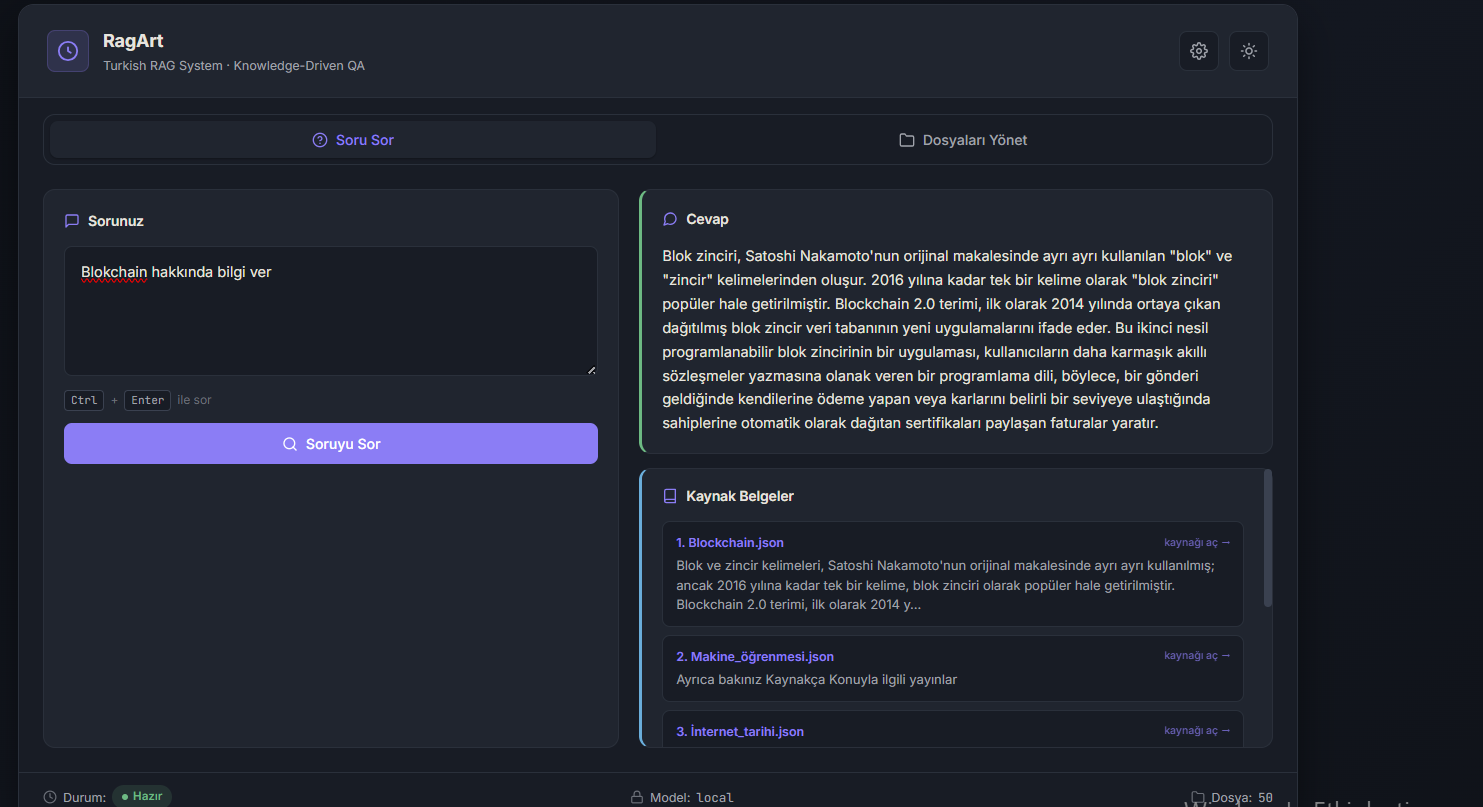
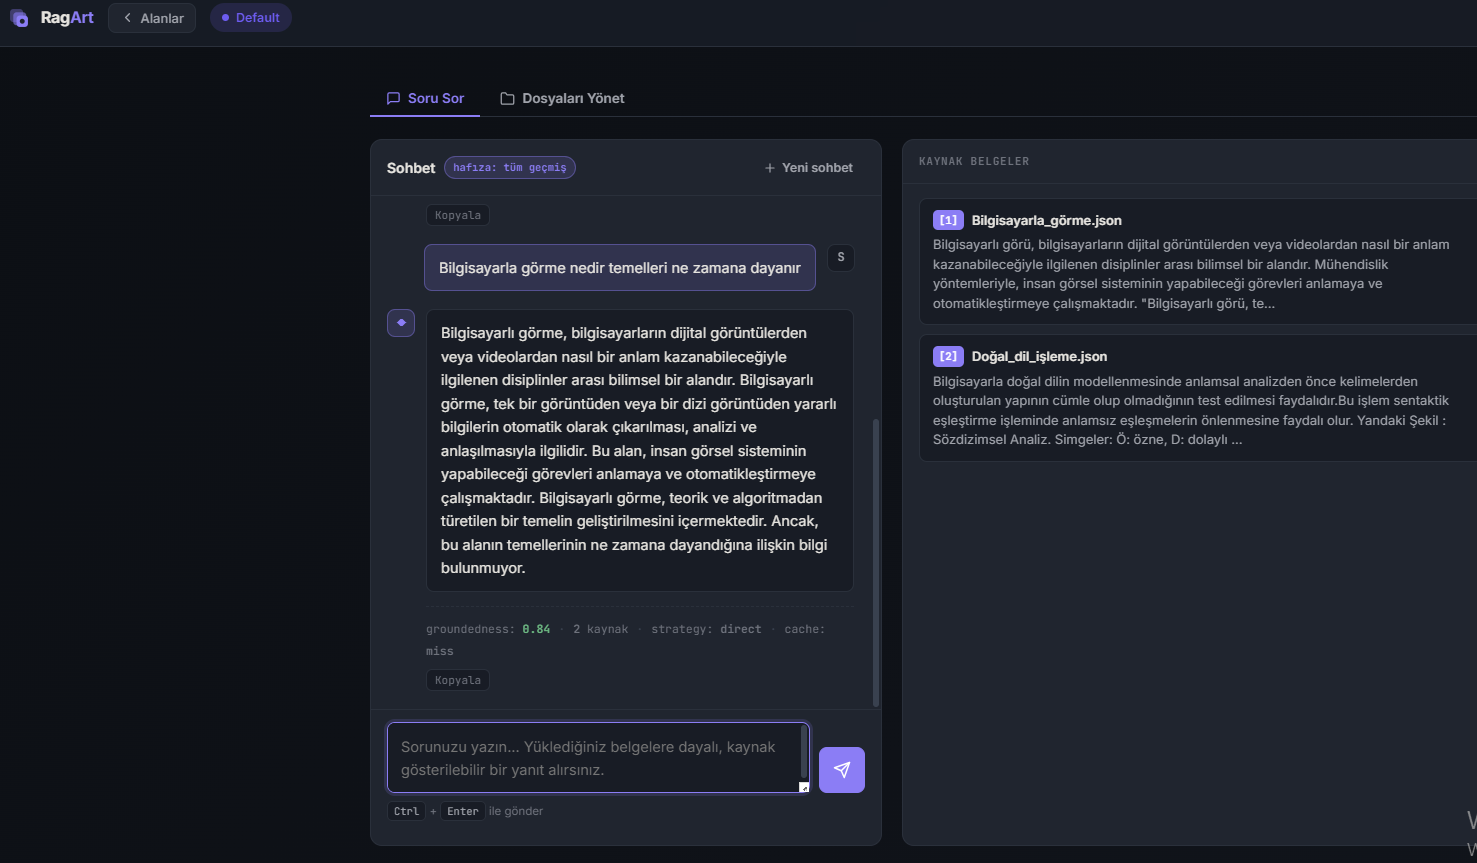
docs(readme): refresh screenshots with current UI
Replace stale screenshots with new captures: workspaces, QA interface, source-document viewer, file manager, BYOK settings, developer-mode retrieval/reranker, and chat-memory resume. Drops the unused question-example shot.

diff --git a/README.md b/README.md
@@ -26,13 +26,21 @@ RagArt is an end-to-end RAG pipeline that goes beyond basic semantic search. It 
 
 </details>
 
-| Soru-Cevap Arayüzü | Ayarlar Paneli |
+| Çalışma Alanları | Soru-Cevap Arayüzü |
 |:---:|:---:|
-| ![QA Interface](docs/images/qa-interface.png) | ![Settings](docs/images/settings.png) |
+| ![Workspaces](docs/images/workspaces.png) | ![QA Interface](docs/images/qa-interface.png) |
 
-| Dosya Yönetimi | Farklı Soru Örneği |
+| Kaynak Belge Görüntüleyici | Dosya Yönetimi |
 |:---:|:---:|
-| ![File Manager](docs/images/file-manager.png) | ![Question Example](docs/images/question-example.png) |
+| ![Source Viewer](docs/images/source-viewer.png) | ![File Manager](docs/images/file-manager.png) |
+
+| Sağlayıcı & API Key (BYOK) | Retrieval & Reranker (Geliştirici) |
+|:---:|:---:|
+| ![Settings](docs/images/settings.png) | ![Developer Retrieval](docs/images/developer-retrieval.png) |
+
+| Geliştirici Modu | Sohbet Hafızası |
+|:---:|:---:|
+| ![Developer Mode](docs/images/developer-mode.png) | ![Chat Memory](docs/images/chat-memory.png) |
 
 ---
 
